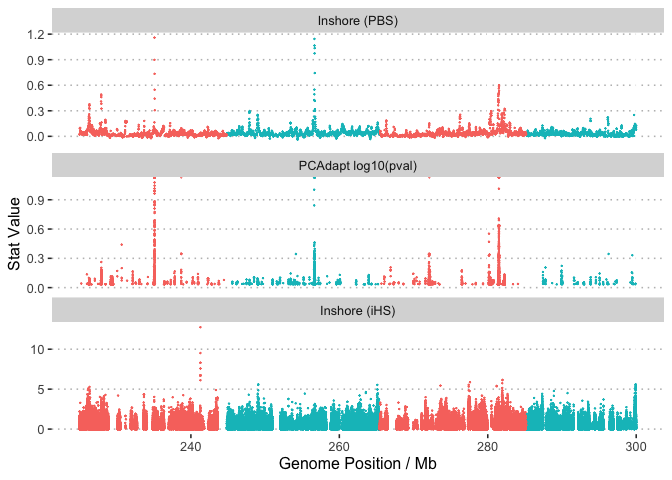
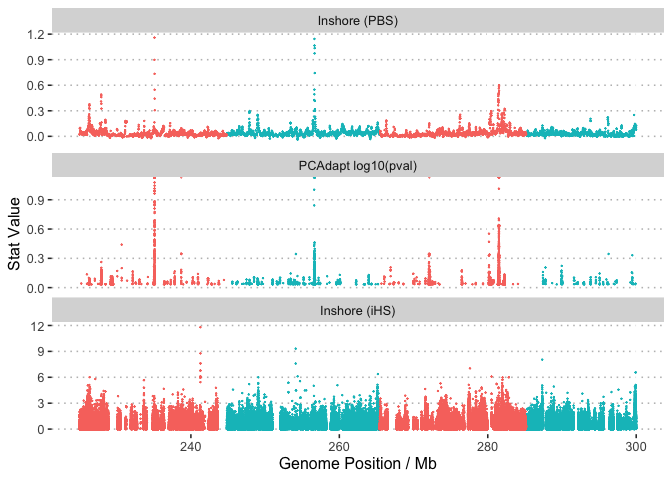
update ihs

diff --git a/06.haplotype_selection_analysis.md b/06.haplotype_selection_analysis.md
@@ -42,13 +42,21 @@ selscan --xpnsl --vcf inshore.{chr}.vcf.gz \
 --threads 10 --out xpnsl_out/{chr}
 ```
 
-The unstandardazed iHS and XP-EHH values were normalized in allele
+The unstandardised iHS and XP-EHH values were normalized in allele
 frequency bins (50 bins) across the genome using `norm`.
 
 ``` bash
 norm --ihs --files ihs_out/*.out --bins 50 --bp-win --min-snps 10 --winsize 50000
 norm --xpehh --files xpehh_out/*.out --bins 50 --bp-win --min-snps 10 --winsize 50000
 norm --xpnsl --files xpnsl_out/*.out --bins 50 --bp-win --min-snps 10 --winsize 50000
+```
+
+We plotted the standardised iHS score across the genome using the
+psedu-chromosome level coordinates.
+
+``` bash
+cat ihs_out/{pop}/*.norm |cut -f1,2,7 > {pop}.ihs.50bins.norm
+python translate_coords.py {pop}.ihs.50bins.norm ragtag.scaffolds.agp > {pop}.ihs.50bins.norm.ragtag.txt 
 ```
 
 <img src="06.haplotype_selection_analysis_files/figure-gfm/ihs-manhattan-plot-1.png" width="672" style="display: block; margin: auto;" />
@@ -61,3 +69,5 @@ value in each divided 50Kb genomic window, excluding regions with fewer
 than 10 SNPs. We did the same iHS scan for inshore and offshore
 populations and used offshore samples as reference population in XP-EHH
 and XP-nSL scan.
+
+The XP-EHH results
